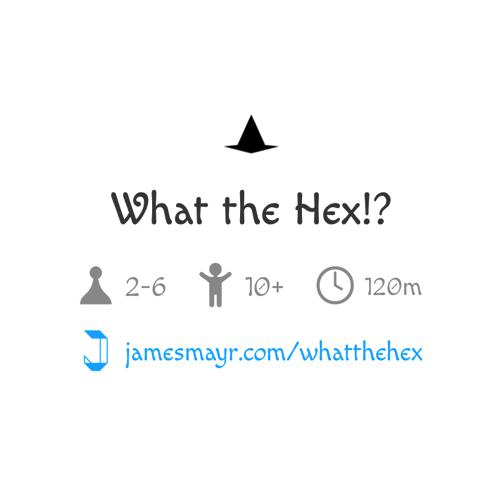
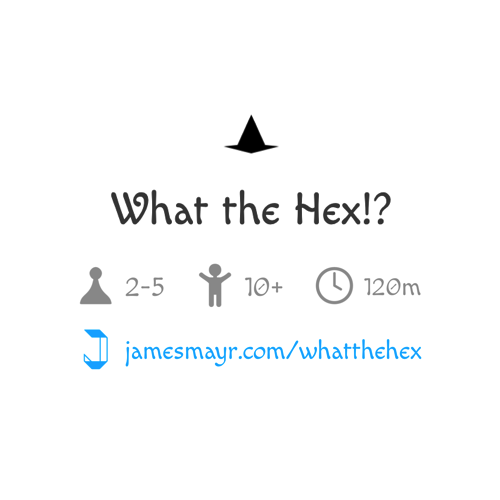
display what the hex

diff --git a/index.html b/index.html
@@ -106,13 +106,13 @@
 					<a href="https://maximpekarsky.com" target="_blank" alt="Max Pekarsky" title="Max Pekarsky">Max Pekarsky</a>
 				</li>
 				<li>
-					<a href="https://www.youtube.com/@absounddesign" target="_blank" alt="Alex Berg" title="Alex Berg">Alex Berg</a>
+					<a href="https://www.alexbergaudio.com/" target="_blank" alt="Alex Berg" title="Alex Berg">Alex Berg</a>
 				</li>
 				<li>
 					<a href="https://www.instagram.com/happytreesbylyn/" target="_blank" alt="Lyn Meyer" title="Lyn Meyer">Lyn Meyer</a>
 				</li>
 				<li>
-					<a href="https://www.youtube.com/@danweinstein2154" target="_blank" alt="Dan Weinstein" title="Dan Weinstein">Dan Weinstein</a>
+					<a href="https://www.deweinstein.com/" target="_blank" alt="Dan Weinstein" title="Dan Weinstein">Dan Weinstein</a>
 				</li>
 				<li>
 					<a href="https://scholar.google.com/citations?user=6lqzn74AAAAJ" target="_blank" alt="Ayelet Kershenbaum" title="Ayelet Kershenbaum">Ayelet Kershenbaum</a>
@@ -130,7 +130,7 @@
 					<a href="https://kenforddigitalimages.com" target="_blank" alt="Ken Ford" title="Ken Ford">Ken Ford</a>
 				</li>
 			</ul>
-			<div id="footer-copyright">© 2024 <a href="https://github.com/jamesbmayr" target="_blank" alt="GitHub" title="GitHub">James Mayr</a></div>
+			<div id="footer-copyright">© 2026 <a href="https://github.com/jamesbmayr" target="_blank" alt="GitHub" title="GitHub">James Mayr</a></div>
 		</div>
 		<script>
 			if (window.location.protocol !== "file:" && window.location.pathname.length > 1) {

diff --git a/whatthehex/index.html b/whatthehex/index.html
@@ -49,7 +49,7 @@
 			<div id="overview-attributes">
 				<div id="overview-attributes-players">
 					<svg viewBox="10 10 80 80"><path d="M 45 39 C 42 37 40 34 40 30 C 40 25 45 20 50 20 C 55 20 60 25 60 30 C 60 34 58 37 55 39 C 52 41 55 50 58 59 C 61 69 65 74 72 74 C 74 74 75 75 75 77 C 75 79 74 80 72 80 C 60 80 40 80 28 80 C 26 80 25 79 25 77 C 25 75 26 74 28 74 C 35 74 39 68 42 59 C 45 50 48 41 45 39 Z"></path></svg>
-					<span>2-6</span>
+					<span>2-5</span>
 				</div>
 				<div id="overview-attributes-age">
 					<svg viewBox="10 10 80 80"><path d="M 47 40 C 43 38 40 35 40 30 C 40 24 44 20 50 20 C 56 20 60 24 60 30 C 60 35 57 38 53 40 C 53 41 53 41 53 42 C 56 42 57 42 58 42 C 60 42 67 38 70 35 C 73 32 78 37 75 40 C 72 43 60 50 60 52 C 60 55 60 83 60 86 C 60 88 58 90 56 90 C 54 90 52 88 52 86 C 52 83 52 73 52 70 C 51 70 49 70 48 70 C 48 73 48 83 48 86 C 48 88 46 90 44 90 C 42 90 40 88 40 86 C 40 83 40 55 40 52 C 40 50 28 43 25 40 C 22 37 27 32 30 35 C 33 38 40 42 42 42 C 43 42 44 42 47 42 C 47 41 47 41 47 40 Z"></path></svg>

diff --git a/resources/projects.js b/resources/projects.js
@@ -1537,6 +1537,14 @@ const PROJECTS = {
 		date: "June 19, 2017",
 		description: "Generate a web of interconnected items that rearranges itself."
 	},
+	whatthehex: {
+		skipRandom: true,
+		name: "What the Hex!?",
+		size: "large",
+		tags: ["game","board","card","multiplayer","tabletop"],
+		date: "November 1, 2025",
+		description: "What the Hex!? is a cooperative dungeon-crawler where everyone's a wizard."
+	},
 	wheelturner: {
 		name: "wheelTurner",
 		size: "small",
